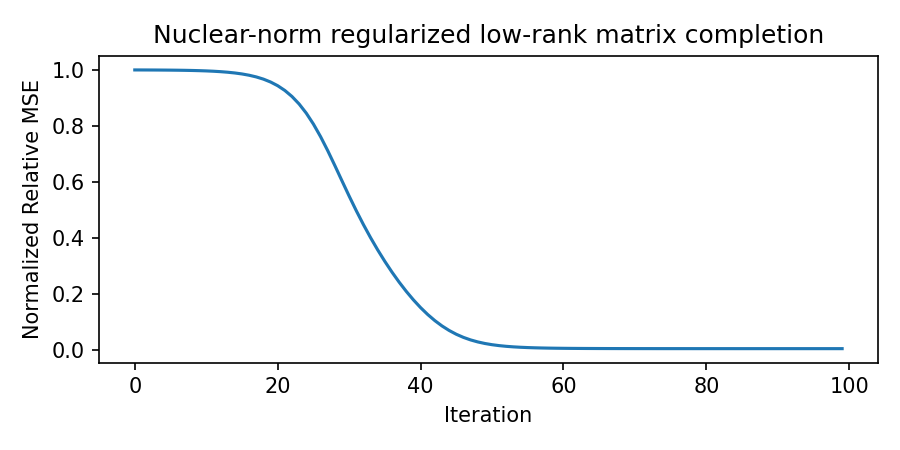
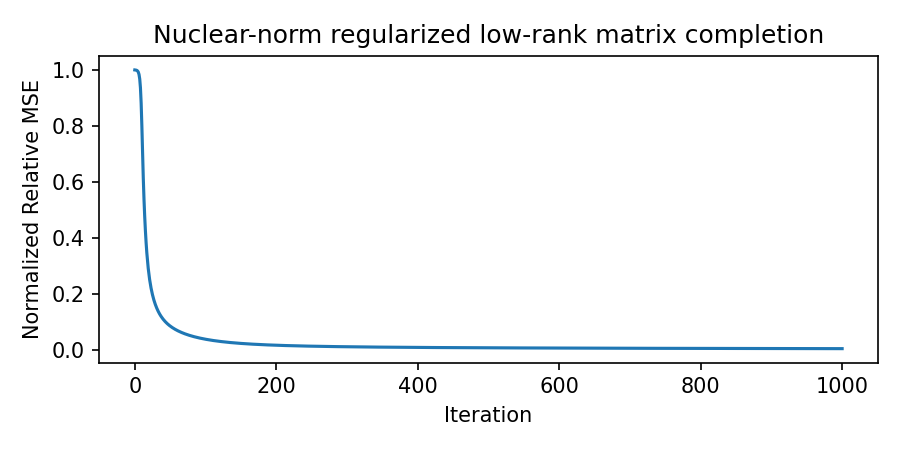
update sampling rate

diff --git a/examples/mc.py b/examples/mc.py
@@ -97,7 +97,7 @@ def matrix_completion(
         normalized_mse = mse / M_true_sq_avg
         nrmses.append(normalized_mse)
 
-        if verbose and t % 1 == 0:
+        if verbose and t % 10 == 0:
             print(f"iter {t:4d}  loss={losses[-1]:.4f}  normalized loss={nrmses[-1]:.4f}")
 
         if np.linalg.norm(X_new - X, "fro") < tol:
@@ -131,7 +131,7 @@ if __name__ == "__main__":
     # ── generate a rank-5 matrix with 10 % of entries observed ──
     m, n, true_rank = 200, 100, 5
     M_true = make_low_rank_matrix(m, n, true_rank, noise=0.00)
-    mask = random_mask(m, n, obs_fraction=0.90)
+    mask = random_mask(m, n, obs_fraction=0.10)
 
     M_obs = M_true * mask          # zeros at unobserved entries
 
@@ -139,9 +139,9 @@ if __name__ == "__main__":
     X_hat, losses, nrmses = matrix_completion(
         M_obs, mask,
         r=true_rank,
-        lam=0.001,
-        lr=10.0,
-        n_iter=100,
+        lam=0.00001,
+        lr=20.0,
+        n_iter=1001,
         tol=1e-7,
         verbose=True,
         M_true=M_true,
